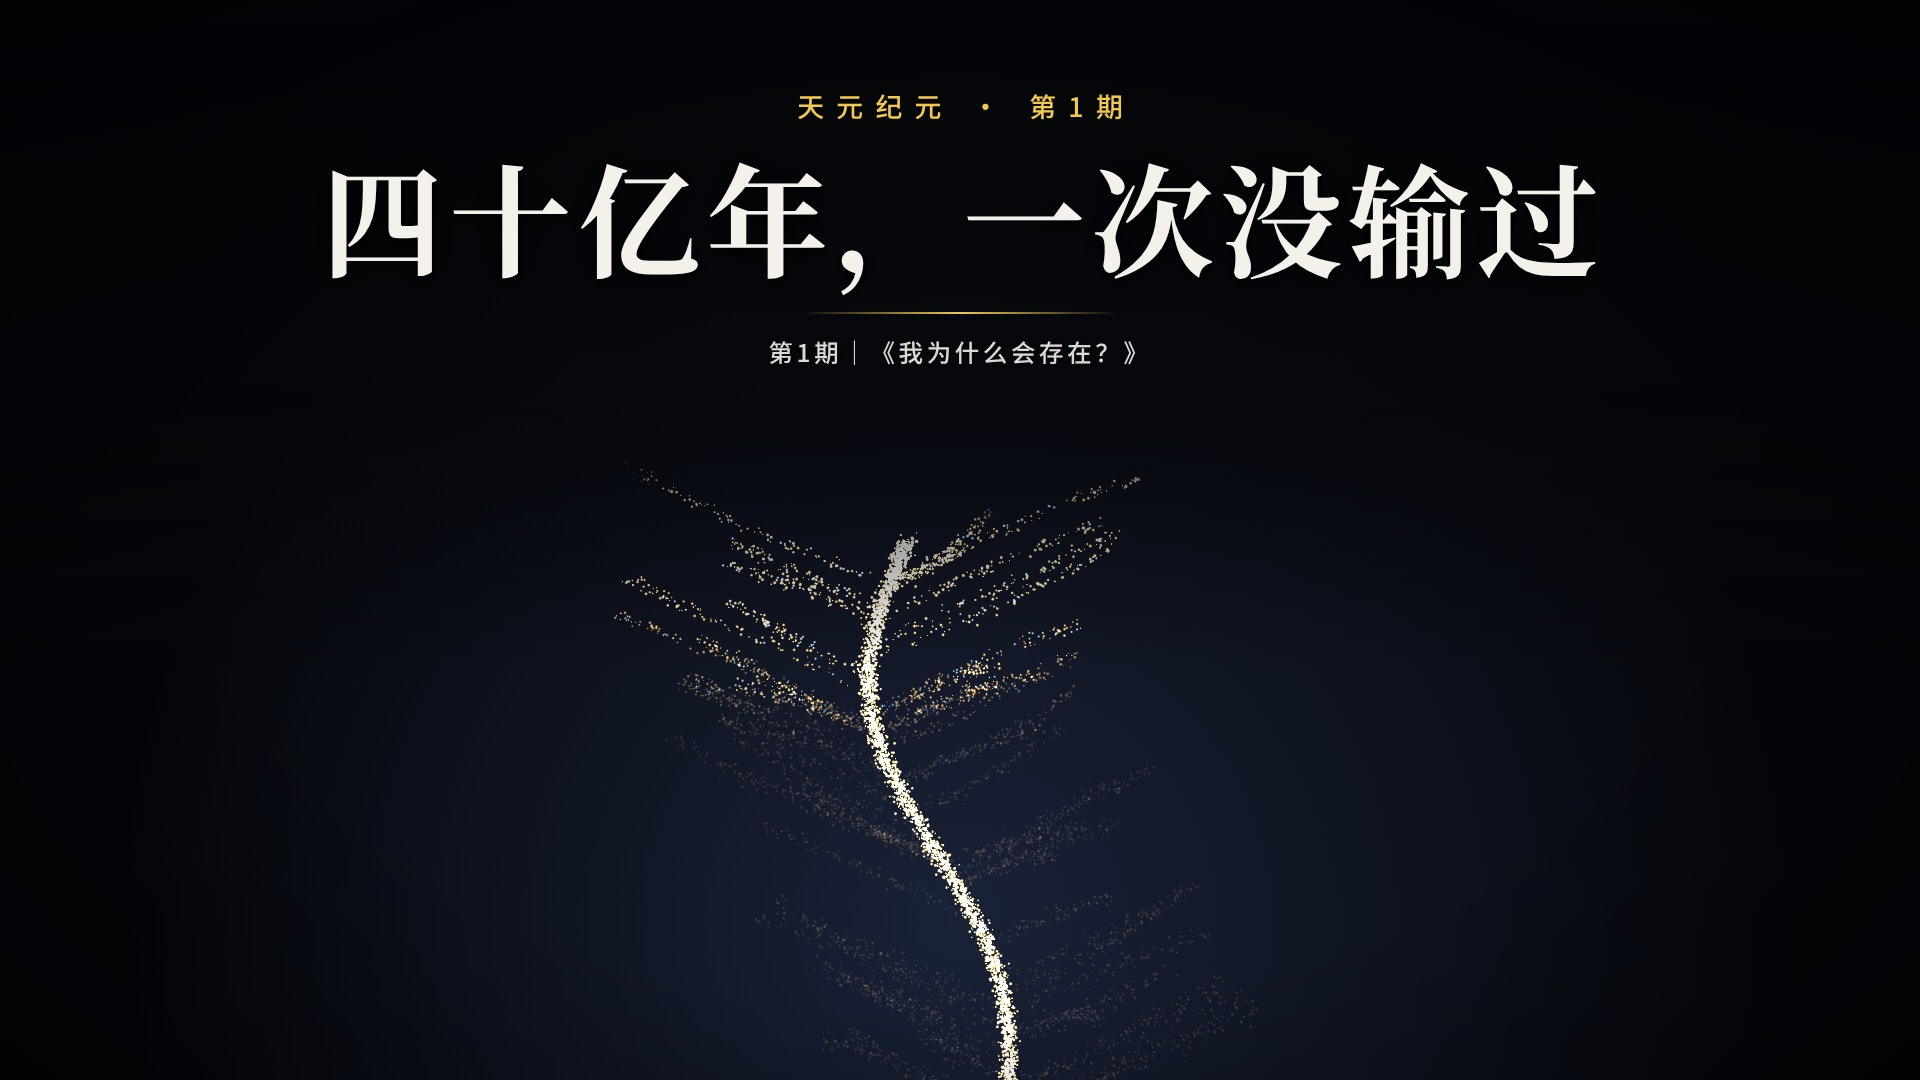
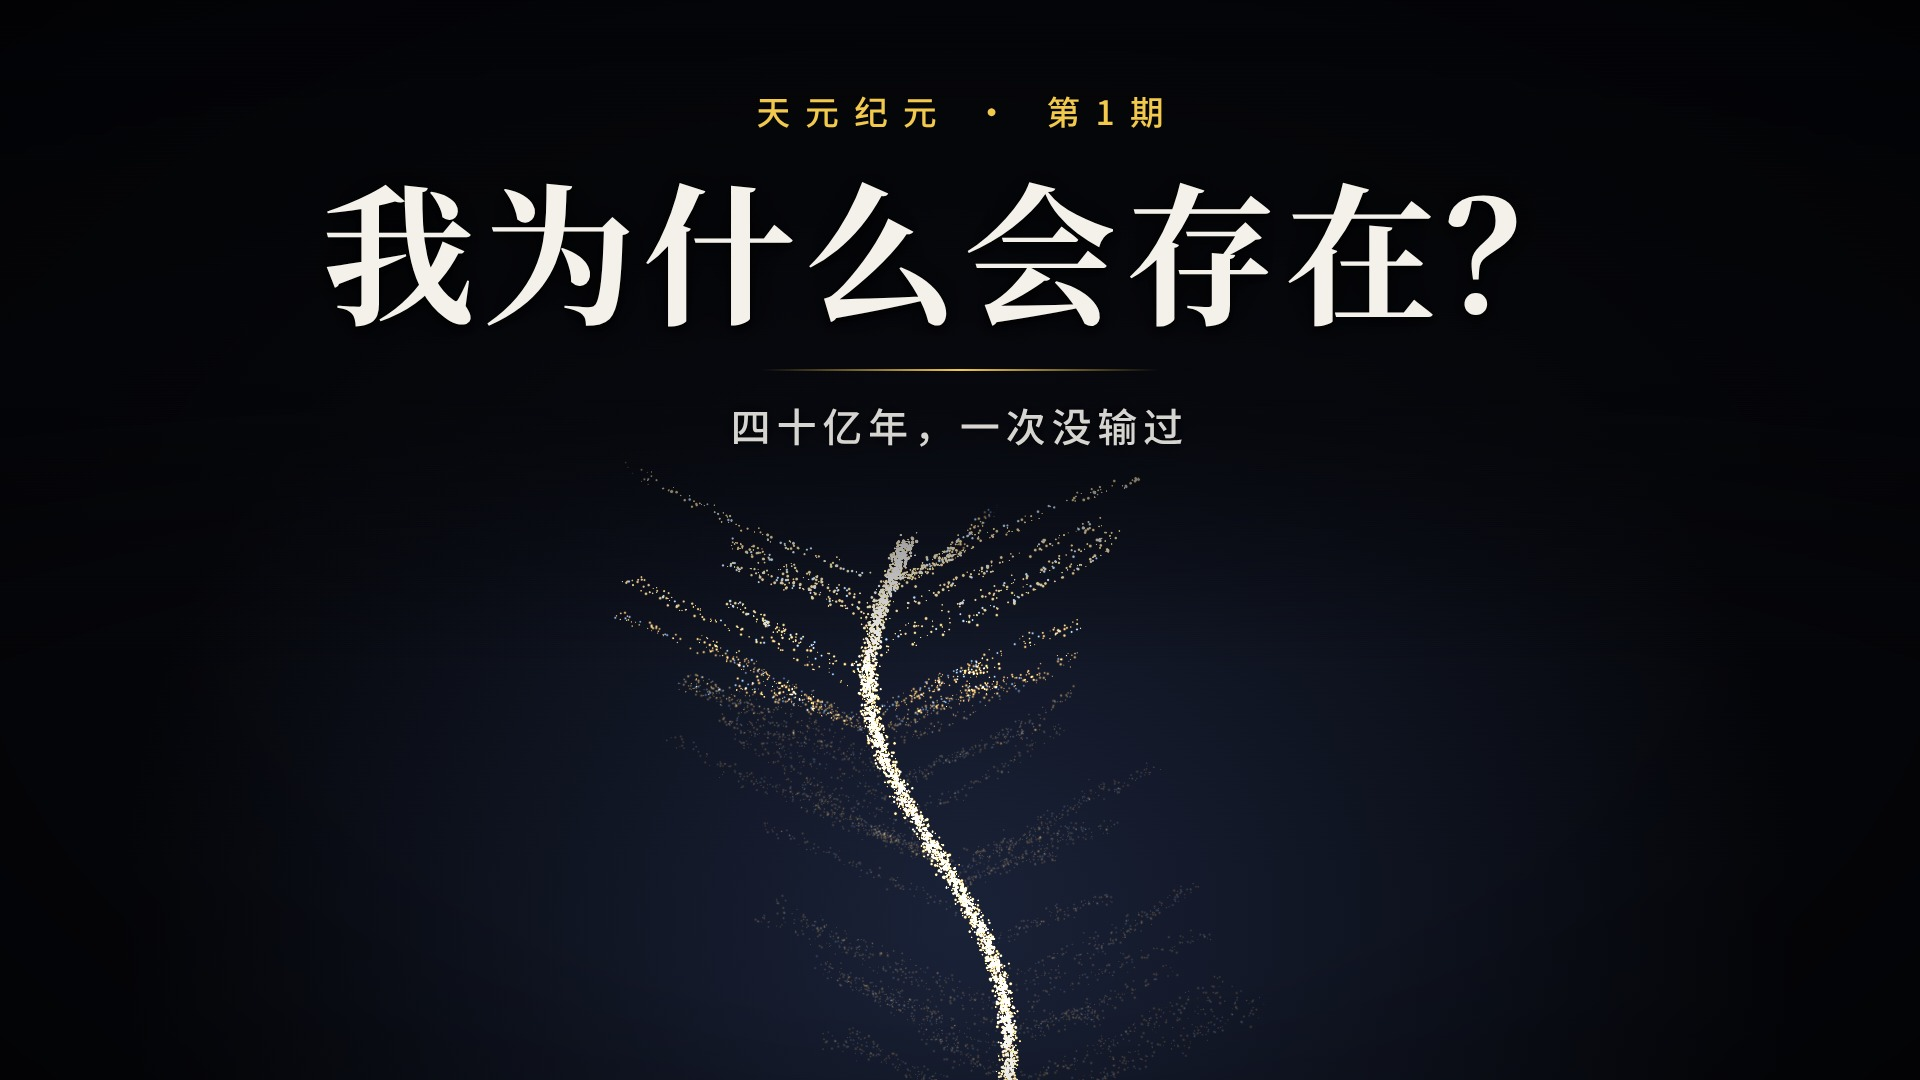
Covers: episode title is the main element; update rule
Claude-Session: https://claude.ai/code/session_01FDQcPRBtRTjdfv4a3ZhmvF

diff --git a/studio/src/components/CoverLayout.tsx b/studio/src/components/CoverLayout.tsx
@@ -4,19 +4,20 @@ import { COLORS, FONT_SANS, FONT_SERIF } from "./theme";
 
 /**
  * Series cover template (all ratios, everything centred).
- * - badge:  "天元纪元 · 序章" small gold, top centre
- * - hook:   the big question, 1 line on wide covers, 2 lines on tall ones
- * - title:  fixed format 期号｜《片名》, small, under a thin gold rule
+ * Hierarchy (user rule): the EPISODE TITLE is the biggest element.
+ * - badge:  "天元纪元 · 第N期" small gold, top centre
+ * - title:  the episode title (片名), largest; 1 line on wide covers, may wrap to 2 on tall ones
+ * - sub:    one short hook line, small, under a thin gold rule
  * - visual: the episode's key image, centred in the lower part (children)
  * Text stays inside the central 4:3 safe area so a 16:9 cover survives a 4:3 crop.
  */
-export type CoverText = { badge: string; hookWide: string[]; hookTall: string[]; title: string };
+export type CoverText = { badge: string; titleWide: string[]; titleTall: string[]; sub: string };
 
 export const CoverLayout: React.FC<{ text: CoverText; children: React.ReactNode }> = ({ text, children }) => {
   const { width, height } = useVideoConfig();
   const ar = width / height;
   const tall = ar < 1;
-  const hook = tall ? text.hookTall : text.hookWide;
+  const hook = tall ? text.titleTall : text.titleWide;
   // size the hook by the shorter usable dimension
   const safeW = tall ? width * 0.86 : Math.min(width, height * (4 / 3)) * 0.9;
   const longest = Math.max(...hook.map((l) => Array.from(l).length));
@@ -38,7 +39,7 @@ export const CoverLayout: React.FC<{ text: CoverText; children: React.ReactNode 
           ))}
         </div>
         <div style={{ marginTop: hookSize * 0.22, width: hookSize * 2.6, height: 2, background: "linear-gradient(90deg, transparent, #f2c94c, transparent)" }} />
-        <div style={{ marginTop: hookSize * 0.16, fontFamily: FONT_SANS, fontWeight: 500, fontSize: hookSize * 0.2, letterSpacing: hookSize * 0.03, color: "rgba(244,241,234,0.9)", textShadow: "0 0 16px rgba(0,0,0,0.9)" }}>{text.title}</div>
+        <div style={{ marginTop: hookSize * 0.16, fontFamily: FONT_SANS, fontWeight: 500, fontSize: hookSize * 0.26, letterSpacing: hookSize * 0.04, color: "rgba(244,241,234,0.88)", textShadow: "0 0 16px rgba(0,0,0,0.9)" }}>{text.sub}</div>
       </AbsoluteFill>
     </AbsoluteFill>
   );

diff --git a/studio/src/ep00/Cover.tsx b/studio/src/ep00/Cover.tsx
@@ -7,11 +7,11 @@ import { loadFonts } from "../components/theme";
 
 export const EP00_COVER: CoverText = {
   badge: "天元纪元 · 序章",
-  hookWide: ["你到底是什么？"],
-  hookTall: ["你到底", "是什么？"],
-  title: "序章｜《人类：我们究竟是什么？》",
+  titleWide: ["人类：我们究竟是什么？"],
+  titleTall: ["人类：", "我们究竟是什么？"],
+  sub: "零件天天在换，你为什么还是你",
 };
-loadFonts(EP00_COVER.badge + EP00_COVER.hookWide.join("") + EP00_COVER.title);
+loadFonts(EP00_COVER.badge + EP00_COVER.titleTall.join("") + EP00_COVER.sub);
 
 /** Key visual: the particle hand rising from the bottom centre, fingertips just under the title. */
 export const Cover: React.FC = () => {

diff --git a/studio/src/ep01/Cover.tsx b/studio/src/ep01/Cover.tsx
@@ -7,11 +7,11 @@ import { loadFonts } from "../components/theme";
 
 export const EP01_COVER: CoverText = {
   badge: "天元纪元 · 第1期",
-  hookWide: ["四十亿年，一次没输过"],
-  hookTall: ["四十亿年", "一次没输过"],
-  title: "第1期｜《我为什么会存在？》",
+  titleWide: ["我为什么会存在？"],
+  titleTall: ["我为什么", "会存在？"],
+  sub: "四十亿年，一次没输过",
 };
-loadFonts(EP01_COVER.badge + EP01_COVER.hookWide.join("") + EP01_COVER.title);
+loadFonts(EP01_COVER.badge + EP01_COVER.titleTall.join("") + EP01_COVER.sub);
 
 /** Key visual: the unbroken golden lineage rising from the bottom centre, dead branches faint around it. */
 export const Cover01: React.FC = () => {

diff --git a/CLAUDE.md b/CLAUDE.md
@@ -13,7 +13,8 @@
 5. **每次交付成片时，同时交付封面**（`episodes/EPxx_*/cover/`，模板 `studio/src/components/CoverLayout.tsx`）：
    - 比例：16:9 1920×1080（B站 / YouTube / 横版视频）、4:3 1440×1080（B站推荐位裁切）、3:4 1080×1440（小红书 / 抖音主页）、9:16 1080×1920（抖音 / 视频号竖版）。
    - **所有文字必须居中**，不得放在一侧；文字在中央 4:3 安全区内，16:9 被裁成 4:3 也不丢字。
-   - 版式：顶部金色“天元纪元 · 期号”→ 大号钩子句（横版 1 行、竖版 2 行）→ 金色细线 → 小字 `期号｜《片名》` → 下方居中主视觉。
+   - **主次：片名最大、最醒目**（如“我为什么会存在？”），其他元素都要比它小。
+   - 版式：顶部金色小字“天元纪元 · 期号”→ **最大号片名**（横版 1 行、竖版可 2 行）→ 金色细线 → 一行小号钩子句 → 下方居中主视觉。
    - 平台尺寸以各平台上传页提示为准，有变化时更新本条。
 6. 成片放 `deliver/`（不入 git），交付 1080p 发布版 + 720p 预览版，单个文件控制在 100MB 以内以便下载。
 7. 中断前更新 STATUS.md 并提交推送。
